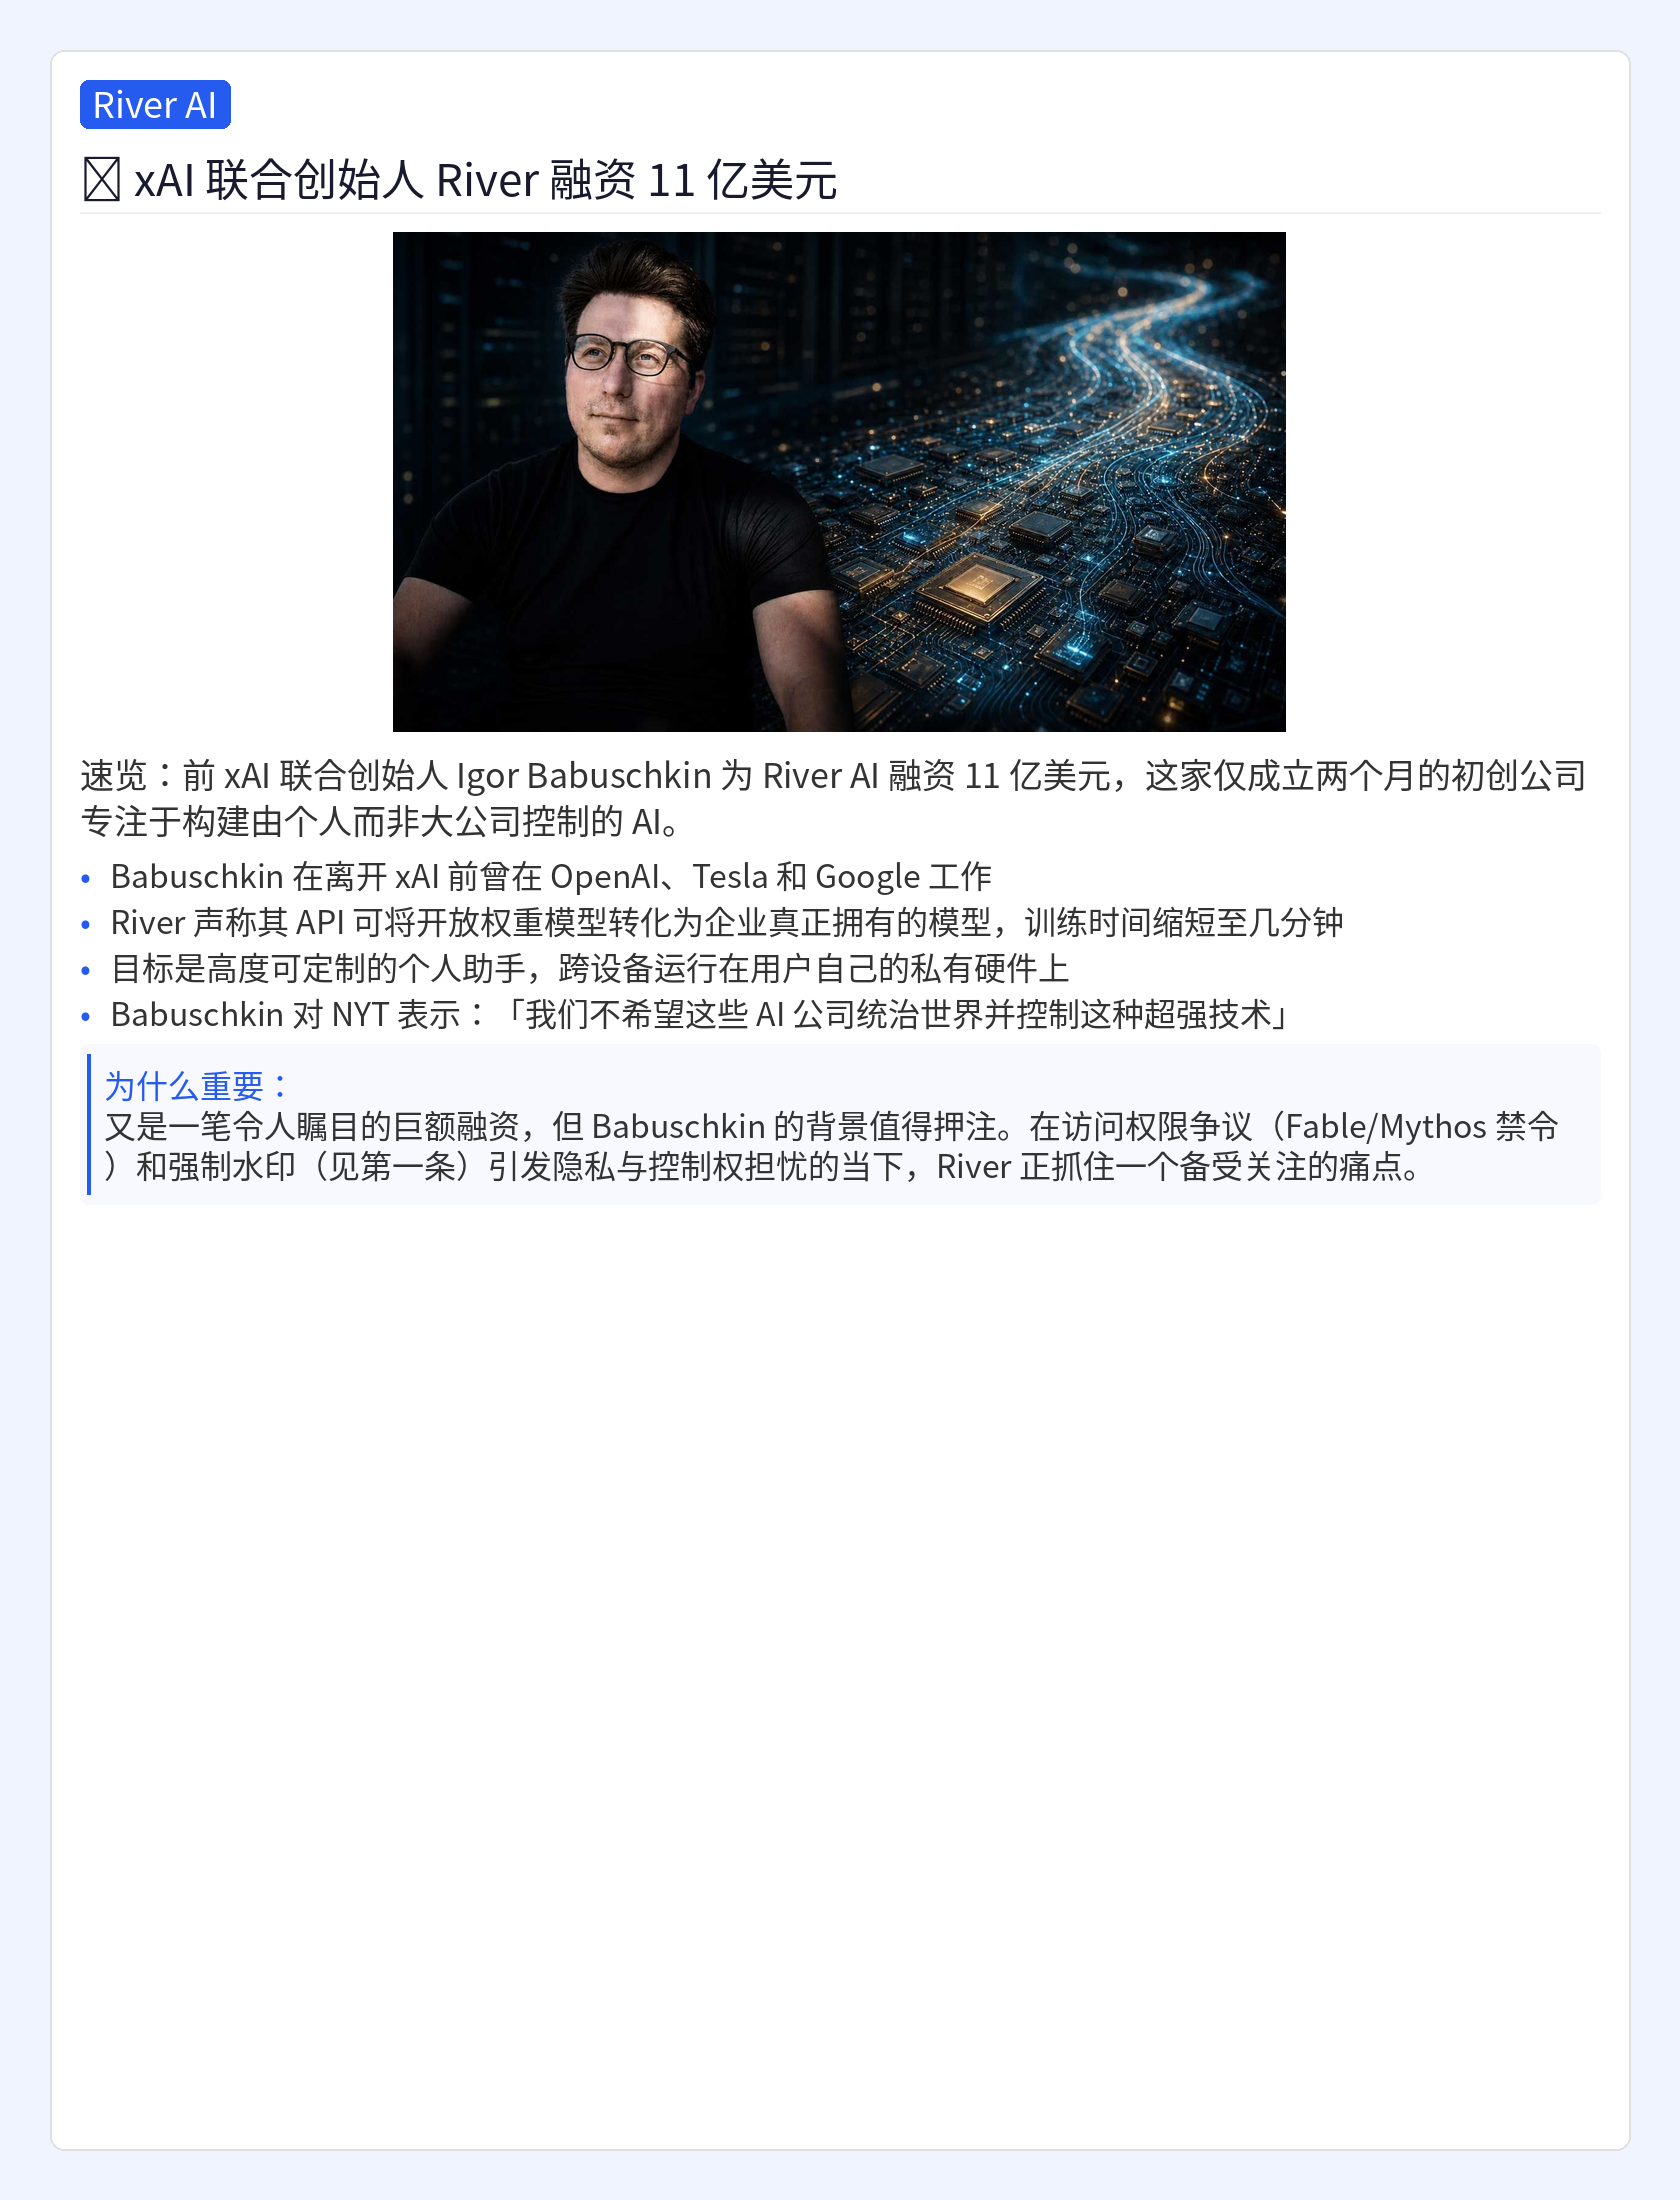
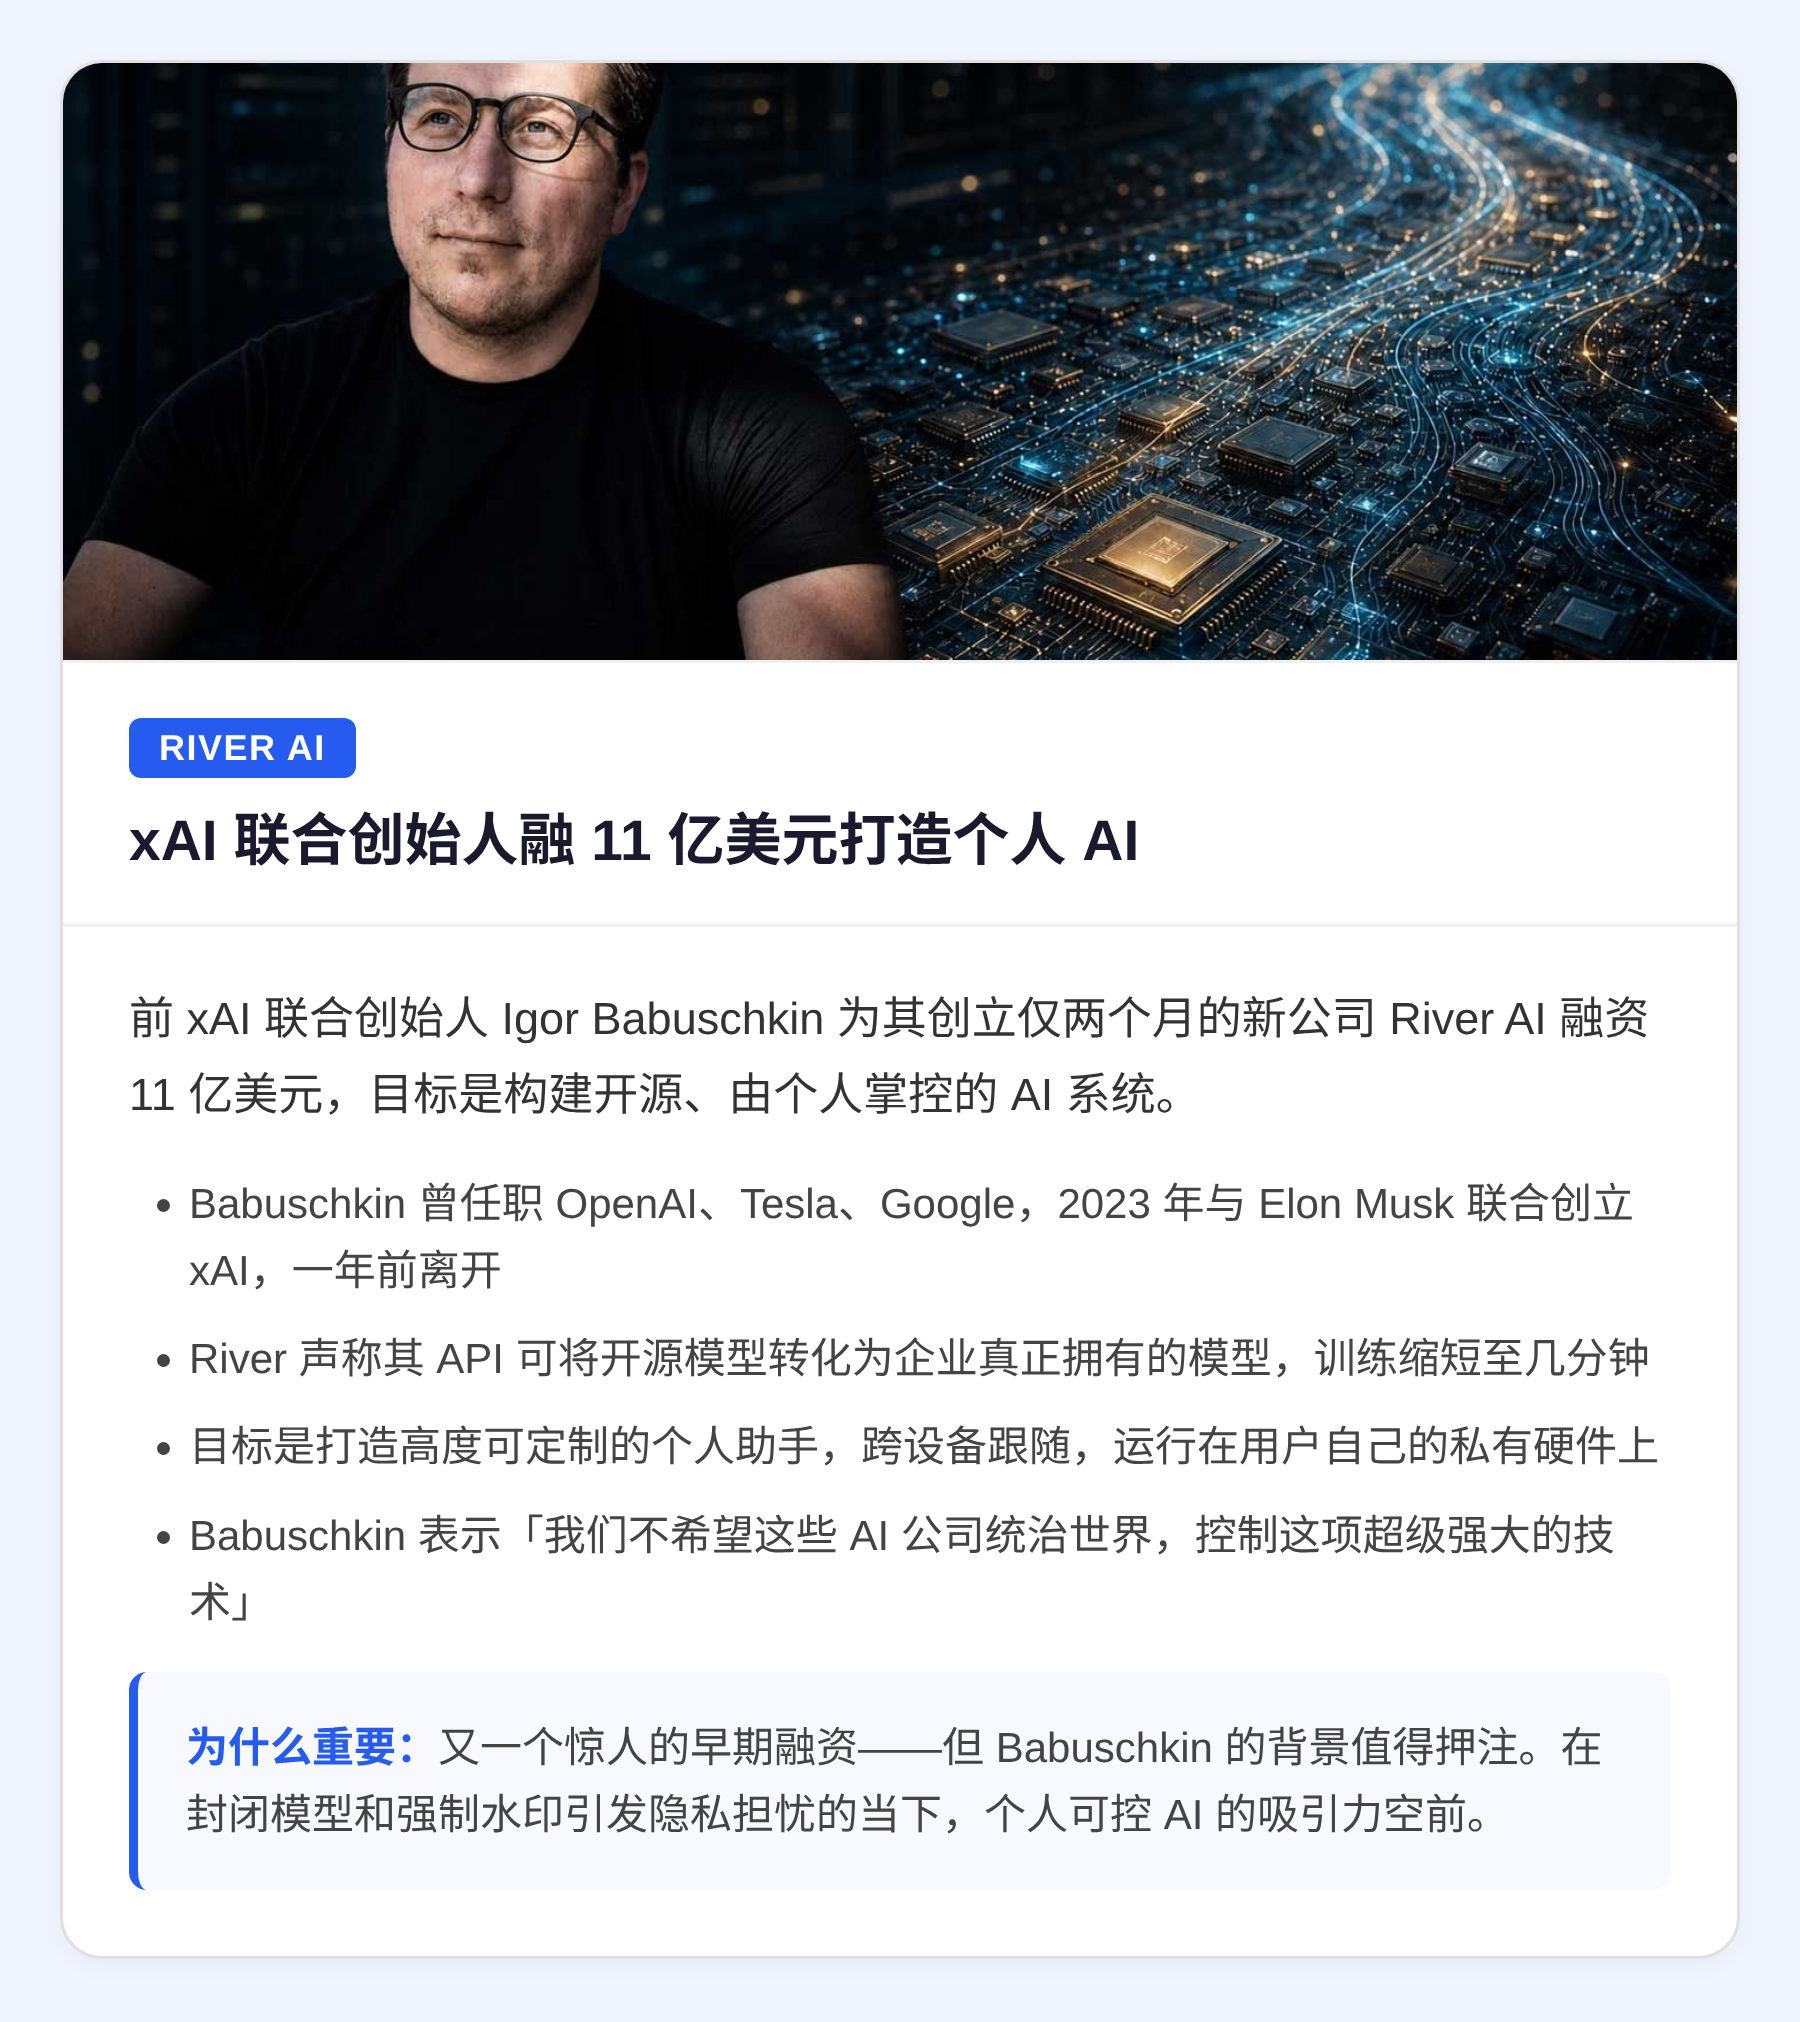
update: 下载新图片并更新 index.html 图片引用为 card_01~05.png
Coze-Commit-Type: user
Coze-User-ID: 1923475687613808
Coze-Conversation-ID: 11965558

diff --git a/index.html b/index.html
@@ -31,11 +31,11 @@ body { background: #f0f4ff; padding: 20px; }
     <p>⚡ OpenAI COO 离职创业；Anthropic 押注医疗 AI；LTX-2.5 发布；Nvidia Nemotron 3.5</p>
   </div>
 </div>
-<div class="card-img"><img src="/images/card_01_virus.png" alt="Anthropic 隐形水印"></div>
-<div class="card-img"><img src="/images/card_02_rowan.png" alt="Grok Bot 代理团队"></div>
-<div class="card-img"><img src="/images/card_03_lovable.png" alt="Mac 快捷键教程"></div>
-<div class="card-img"><img src="/images/card_04_anthropic.png" alt="River AI 融资"></div>
-<div class="card-img"><img src="/images/card_05_v2.png" alt="AI 资讯速览"></div>
+<div class="card-img"><img src="/images/card_01.png" alt="Anthropic 隐形水印"></div>
+<div class="card-img"><img src="/images/card_02.png" alt="Grok Bot 代理团队"></div>
+<div class="card-img"><img src="/images/card_03.png" alt="Mac 快捷键教程"></div>
+<div class="card-img"><img src="/images/card_04.png" alt="River AI 融资"></div>
+<div class="card-img"><img src="/images/card_05.png" alt="AI 资讯速览"></div>
 <div class="footer">来源：The Rundown AI · 由梦核玩偶 agents 整理 · 2026年8月12日</div>
 </div>
 </body>
